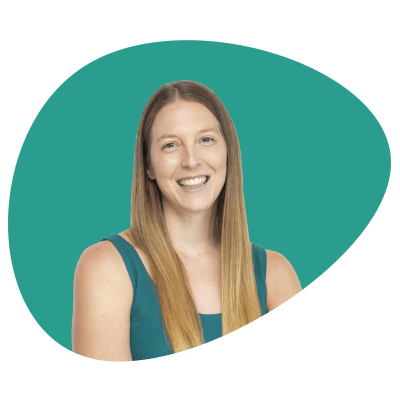
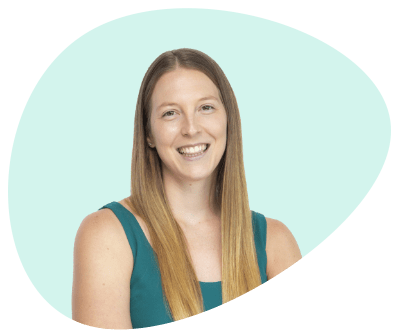
Refactor AboutCoverLetter component and update profile picture

diff --git a/packages/@elenaorfe-client/components/CoverLetter/AboutCoverLetter.tsx b/packages/@elenaorfe-client/components/CoverLetter/AboutCoverLetter.tsx
@@ -7,29 +7,29 @@ const AboutCoverLetter: React.FC = () => {
 		<section>
 			<h2 className="mb-2 text-lg font-semibold">A brief introduction</h2>
 			<div className="grid grid-cols-1 items-center gap-8 lg:grid-cols-3">
-				<Image
-					src={profilePic}
-					alt=""
-					className="mx-auto h-[250px] w-[250px]"
-				/>
-				<div className="lg:col-span-2">
-					<p className="mb-4 hyphens-auto text-justify">
+				<div className="space-y-4 lg:col-span-2">
+					<p className="hyphens-auto text-justify">
 						I was born in Malaga, Spain. I graduate myself in Industrial
 						Engineering, right after found myself happily diving into the world
 						of software development where I found my passion for coding and
 						design.
 					</p>
-					<p className="mb-4 hyphens-auto text-justify">
+					<p className="hyphens-auto text-justify">
 						In my 8+ years experience, I was working in a couple of companies
 						with the privilege of participate on projects with teams located all
 						around the globe.
 					</p>
-					<p className="mb-4 hyphens-auto text-justify">
+					<p className="hyphens-auto text-justify">
 						In my free time, I like to surf and run. I&apos;ve completed a
 						couple of half marathons. Also I have passion for handcrafts,
 						particularly amigurumis, the Japanese art of crocheting.
 					</p>
 				</div>
+				<Image
+					src={profilePic}
+					alt="A profile picture of Elena Ortega"
+					className="mx-auto h-auto w-[250px] lg:ml-auto lg:mr-0"
+				/>
 			</div>
 		</section>
 	);
